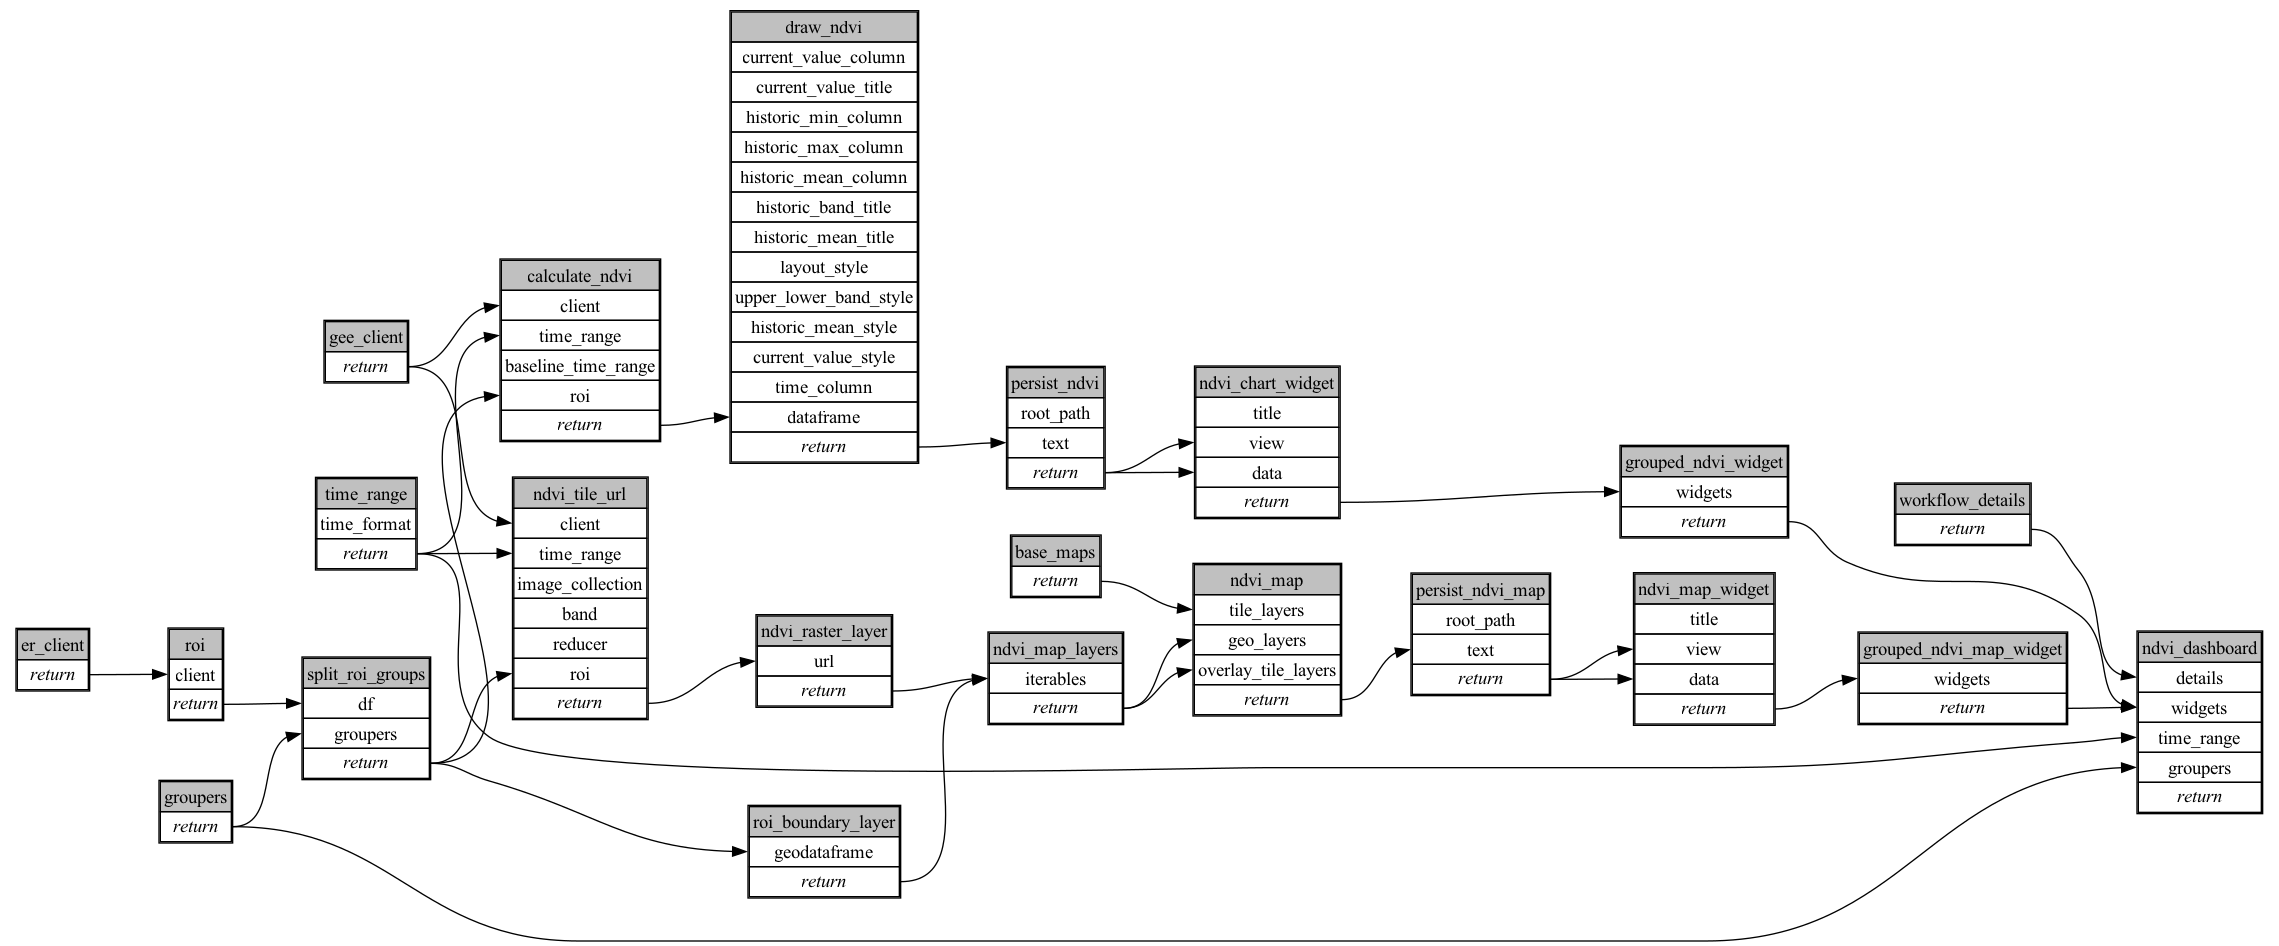
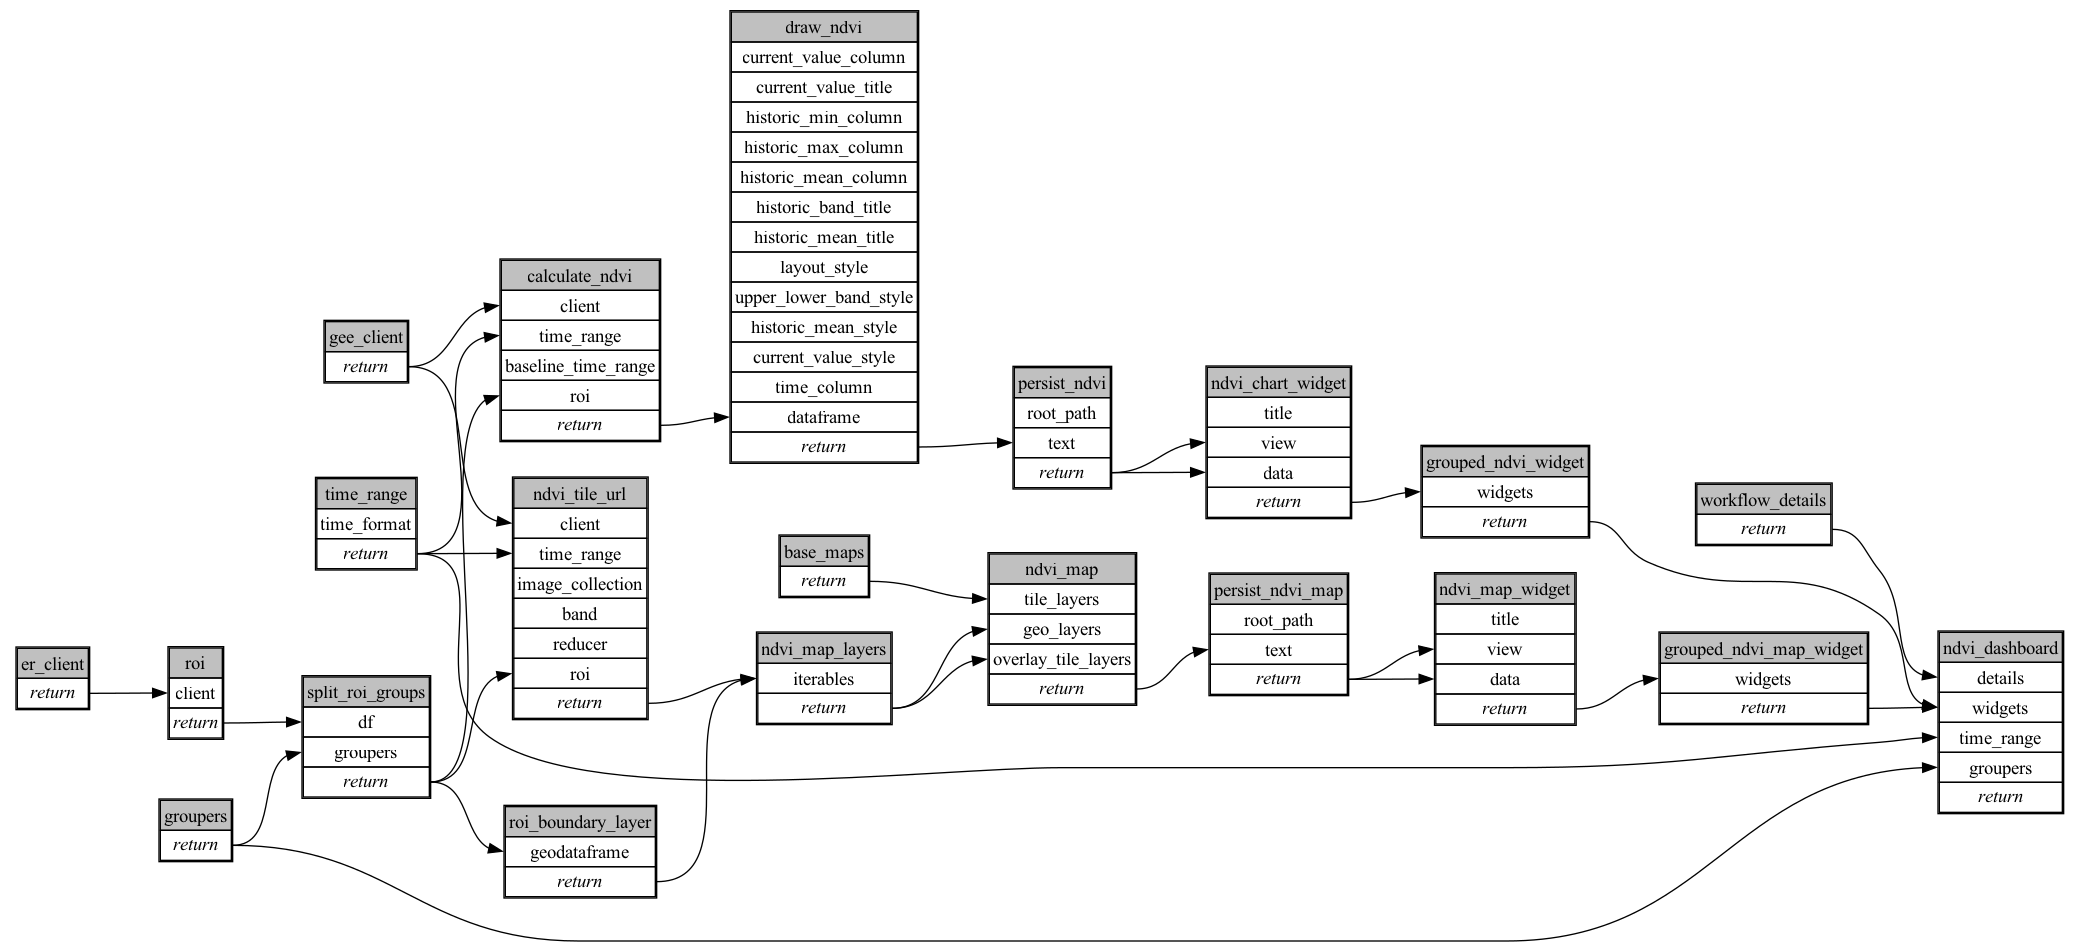
add legend

diff --git a/ecoscope-workflows-ndvi-workflow/ecoscope_workflows_ndvi_workflow/dags/run_async.py b/ecoscope-workflows-ndvi-workflow/ecoscope_workflows_ndvi_workflow/dags/run_async.py
@@ -32,9 +32,6 @@ from ecoscope_workflows_ext_custom.tasks.io import (
 from ecoscope_workflows_ext_custom.tasks.results import (
     create_polygon_layer_pydeck as create_polygon_layer_pydeck,
 )
-from ecoscope_workflows_ext_custom.tasks.results import (
-    create_tiled_bitmap_layer as create_tiled_bitmap_layer,
-)
 from ecoscope_workflows_ext_custom.tasks.results import draw_map as draw_map
 from ecoscope_workflows_ext_custom.tasks.results import (
     set_base_maps_pydeck as set_base_maps_pydeck,
@@ -67,9 +64,8 @@ def main(params: Params):
         "grouped_ndvi_widget": ["ndvi_chart_widget"],
         "base_maps": [],
         "ndvi_tile_url": ["gee_client", "time_range", "split_roi_groups"],
-        "ndvi_raster_layer": ["ndvi_tile_url"],
         "roi_boundary_layer": ["split_roi_groups"],
-        "ndvi_map_layers": ["roi_boundary_layer", "ndvi_raster_layer"],
+        "ndvi_map_layers": ["roi_boundary_layer", "ndvi_tile_url"],
         "ndvi_map": ["base_maps", "ndvi_map_layers"],
         "persist_ndvi_map": ["ndvi_map"],
         "ndvi_map_widget": ["persist_ndvi_map"],
@@ -275,19 +271,6 @@ def main(params: Params):
                 "argvalues": DependsOn("split_roi_groups"),
             },
         ),
-        "ndvi_raster_layer": Node(
-            async_task=create_tiled_bitmap_layer.validate()
-            .set_task_instance_id("ndvi_raster_layer")
-            .handle_errors()
-            .with_tracing()
-            .set_executor("lithops"),
-            partial=(params_dict.get("ndvi_raster_layer") or {}),
-            method="mapvalues",
-            kwargs={
-                "argnames": ["url"],
-                "argvalues": DependsOn("ndvi_tile_url"),
-            },
-        ),
         "roi_boundary_layer": Node(
             async_task=create_polygon_layer_pydeck.validate()
             .set_task_instance_id("roi_boundary_layer")
@@ -310,7 +293,7 @@ def main(params: Params):
             partial={
                 "iterables": [
                     DependsOn("roi_boundary_layer"),
-                    DependsOn("ndvi_raster_layer"),
+                    DependsOn("ndvi_tile_url"),
                 ],
             }
             | (params_dict.get("ndvi_map_layers") or {}),

diff --git a/ecoscope-workflows-ndvi-workflow/ecoscope_workflows_ndvi_workflow/dags/run_async_mock_io.py b/ecoscope-workflows-ndvi-workflow/ecoscope_workflows_ndvi_workflow/dags/run_async_mock_io.py
@@ -57,9 +57,6 @@ from ecoscope_workflows_core.tasks.results import gather_dashboard as gather_das
 from ecoscope_workflows_ext_custom.tasks.results import (
     create_polygon_layer_pydeck as create_polygon_layer_pydeck,
 )
-from ecoscope_workflows_ext_custom.tasks.results import (
-    create_tiled_bitmap_layer as create_tiled_bitmap_layer,
-)
 from ecoscope_workflows_ext_custom.tasks.results import draw_map as draw_map
 
 from ..params import Params
@@ -85,9 +82,8 @@ def main(params: Params):
         "grouped_ndvi_widget": ["ndvi_chart_widget"],
         "base_maps": [],
         "ndvi_tile_url": ["gee_client", "time_range", "split_roi_groups"],
-        "ndvi_raster_layer": ["ndvi_tile_url"],
         "roi_boundary_layer": ["split_roi_groups"],
-        "ndvi_map_layers": ["roi_boundary_layer", "ndvi_raster_layer"],
+        "ndvi_map_layers": ["roi_boundary_layer", "ndvi_tile_url"],
         "ndvi_map": ["base_maps", "ndvi_map_layers"],
         "persist_ndvi_map": ["ndvi_map"],
         "ndvi_map_widget": ["persist_ndvi_map"],
@@ -293,19 +289,6 @@ def main(params: Params):
                 "argvalues": DependsOn("split_roi_groups"),
             },
         ),
-        "ndvi_raster_layer": Node(
-            async_task=create_tiled_bitmap_layer.validate()
-            .set_task_instance_id("ndvi_raster_layer")
-            .handle_errors()
-            .with_tracing()
-            .set_executor("lithops"),
-            partial=(params_dict.get("ndvi_raster_layer") or {}),
-            method="mapvalues",
-            kwargs={
-                "argnames": ["url"],
-                "argvalues": DependsOn("ndvi_tile_url"),
-            },
-        ),
         "roi_boundary_layer": Node(
             async_task=create_polygon_layer_pydeck.validate()
             .set_task_instance_id("roi_boundary_layer")
@@ -328,7 +311,7 @@ def main(params: Params):
             partial={
                 "iterables": [
                     DependsOn("roi_boundary_layer"),
-                    DependsOn("ndvi_raster_layer"),
+                    DependsOn("ndvi_tile_url"),
                 ],
             }
             | (params_dict.get("ndvi_map_layers") or {}),

diff --git a/ecoscope-workflows-ndvi-workflow/ecoscope_workflows_ndvi_workflow/dags/jupytext.py b/ecoscope-workflows-ndvi-workflow/ecoscope_workflows_ndvi_workflow/dags/jupytext.py
@@ -41,9 +41,6 @@ from ecoscope_workflows_ext_custom.tasks.io import (
 from ecoscope_workflows_ext_custom.tasks.results import (
     create_polygon_layer_pydeck as create_polygon_layer_pydeck,
 )
-from ecoscope_workflows_ext_custom.tasks.results import (
-    create_tiled_bitmap_layer as create_tiled_bitmap_layer,
-)
 from ecoscope_workflows_ext_custom.tasks.results import draw_map as draw_map
 from ecoscope_workflows_ext_custom.tasks.results import (
     set_base_maps_pydeck as set_base_maps_pydeck,
@@ -383,6 +380,7 @@ base_maps = (
 ndvi_tile_url_params = dict(
     palette=...,
     scale=...,
+    legend_title=...,
 )
 
 # %%
@@ -402,31 +400,6 @@ ndvi_tile_url = (
         **ndvi_tile_url_params,
     )
     .mapvalues(argnames=["roi"], argvalues=split_roi_groups)
-)
-
-
-# %% [markdown]
-# ## Create NDVI Raster Layer
-
-# %%
-# parameters
-
-ndvi_raster_layer_params = dict(
-    opacity=...,
-    max_zoom=...,
-    min_zoom=...,
-)
-
-# %%
-# call the task
-
-
-ndvi_raster_layer = (
-    create_tiled_bitmap_layer.set_task_instance_id("ndvi_raster_layer")
-    .handle_errors()
-    .with_tracing()
-    .partial(**ndvi_raster_layer_params)
-    .mapvalues(argnames=["url"], argvalues=ndvi_tile_url)
 )
 
 
@@ -470,9 +443,7 @@ ndvi_map_layers = (
     groupbykey.set_task_instance_id("ndvi_map_layers")
     .handle_errors()
     .with_tracing()
-    .partial(
-        iterables=[roi_boundary_layer, ndvi_raster_layer], **ndvi_map_layers_params
-    )
+    .partial(iterables=[roi_boundary_layer, ndvi_tile_url], **ndvi_map_layers_params)
     .call()
 )
 

diff --git a/ecoscope-workflows-ndvi-workflow/ecoscope_workflows_ndvi_workflow/dags/run_sequential.py b/ecoscope-workflows-ndvi-workflow/ecoscope_workflows_ndvi_workflow/dags/run_sequential.py
@@ -31,9 +31,6 @@ from ecoscope_workflows_ext_custom.tasks.io import (
 from ecoscope_workflows_ext_custom.tasks.results import (
     create_polygon_layer_pydeck as create_polygon_layer_pydeck,
 )
-from ecoscope_workflows_ext_custom.tasks.results import (
-    create_tiled_bitmap_layer as create_tiled_bitmap_layer,
-)
 from ecoscope_workflows_ext_custom.tasks.results import draw_map as draw_map
 from ecoscope_workflows_ext_custom.tasks.results import (
     set_base_maps_pydeck as set_base_maps_pydeck,
@@ -212,15 +209,6 @@ def main(params: Params):
         .mapvalues(argnames=["roi"], argvalues=split_roi_groups)
     )
 
-    ndvi_raster_layer = (
-        create_tiled_bitmap_layer.validate()
-        .set_task_instance_id("ndvi_raster_layer")
-        .handle_errors()
-        .with_tracing()
-        .partial(**(params_dict.get("ndvi_raster_layer") or {}))
-        .mapvalues(argnames=["url"], argvalues=ndvi_tile_url)
-    )
-
     roi_boundary_layer = (
         create_polygon_layer_pydeck.validate()
         .set_task_instance_id("roi_boundary_layer")
@@ -236,7 +224,7 @@ def main(params: Params):
         .handle_errors()
         .with_tracing()
         .partial(
-            iterables=[roi_boundary_layer, ndvi_raster_layer],
+            iterables=[roi_boundary_layer, ndvi_tile_url],
             **(params_dict.get("ndvi_map_layers") or {}),
         )
         .call()

diff --git a/ecoscope-workflows-ndvi-workflow/ecoscope_workflows_ndvi_workflow/dags/run_sequential_mock_io.py b/ecoscope-workflows-ndvi-workflow/ecoscope_workflows_ndvi_workflow/dags/run_sequential_mock_io.py
@@ -56,9 +56,6 @@ from ecoscope_workflows_core.tasks.results import gather_dashboard as gather_das
 from ecoscope_workflows_ext_custom.tasks.results import (
     create_polygon_layer_pydeck as create_polygon_layer_pydeck,
 )
-from ecoscope_workflows_ext_custom.tasks.results import (
-    create_tiled_bitmap_layer as create_tiled_bitmap_layer,
-)
 from ecoscope_workflows_ext_custom.tasks.results import draw_map as draw_map
 
 from ..params import Params
@@ -230,15 +227,6 @@ def main(params: Params):
         .mapvalues(argnames=["roi"], argvalues=split_roi_groups)
     )
 
-    ndvi_raster_layer = (
-        create_tiled_bitmap_layer.validate()
-        .set_task_instance_id("ndvi_raster_layer")
-        .handle_errors()
-        .with_tracing()
-        .partial(**(params_dict.get("ndvi_raster_layer") or {}))
-        .mapvalues(argnames=["url"], argvalues=ndvi_tile_url)
-    )
-
     roi_boundary_layer = (
         create_polygon_layer_pydeck.validate()
         .set_task_instance_id("roi_boundary_layer")
@@ -254,7 +242,7 @@ def main(params: Params):
         .handle_errors()
         .with_tracing()
         .partial(
-            iterables=[roi_boundary_layer, ndvi_raster_layer],
+            iterables=[roi_boundary_layer, ndvi_tile_url],
             **(params_dict.get("ndvi_map_layers") or {}),
         )
         .call()

diff --git a/ecoscope-workflows-ndvi-workflow/ecoscope_workflows_ndvi_workflow/formdata.py b/ecoscope-workflows-ndvi-workflow/ecoscope_workflows_ndvi_workflow/formdata.py
@@ -231,19 +231,11 @@ class NdviTileUrl(BaseModel):
         description="Scale in meters for computing min/max statistics.",
         title="Scale",
     )
-
-
-class NdviRasterLayer(BaseModel):
-    model_config = ConfigDict(
-        extra="forbid",
+    legend_title: str | None = Field(
+        None,
+        description="Title for the map legend. Defaults to the band name.",
+        title="Legend Title",
     )
-    opacity: confloat(ge=0.0, le=1.0) | None = Field(
-        1.0, description="Layer opacity from 0 to 1.", title="Opacity"
-    )
-    max_zoom: int | None = Field(
-        20, description="Maximum zoom level.", title="Max Zoom"
-    )
-    min_zoom: int | None = Field(0, description="Minimum zoom level.", title="Min Zoom")
 
 
 class GoogleEarthEngineConnection(BaseModel):
@@ -537,9 +529,6 @@ class FormData(BaseModel):
     calculate_ndvi: CalculateNdvi | None = Field(None, title="Calculate NDVI")
     base_maps: BaseMaps | None = Field(None, title="Set Base Maps")
     ndvi_tile_url: NdviTileUrl | None = Field(None, title="Create NDVI Tile URL")
-    ndvi_raster_layer: NdviRasterLayer | None = Field(
-        None, title="Create NDVI Raster Layer"
-    )
     roi_boundary_layer: RoiBoundaryLayer | None = Field(
         None, title="Create ROI Boundary Layer"
     )

diff --git a/ecoscope-workflows-ndvi-workflow/ecoscope_workflows_ndvi_workflow/params.py b/ecoscope-workflows-ndvi-workflow/ecoscope_workflows_ndvi_workflow/params.py
@@ -231,19 +231,11 @@ class NdviTileUrl(BaseModel):
         description="Scale in meters for computing min/max statistics.",
         title="Scale",
     )
-
-
-class NdviRasterLayer(BaseModel):
-    model_config = ConfigDict(
-        extra="forbid",
+    legend_title: str | None = Field(
+        None,
+        description="Title for the map legend. Defaults to the band name.",
+        title="Legend Title",
     )
-    opacity: confloat(ge=0.0, le=1.0) | None = Field(
-        1.0, description="Layer opacity from 0 to 1.", title="Opacity"
-    )
-    max_zoom: int | None = Field(
-        20, description="Maximum zoom level.", title="Max Zoom"
-    )
-    min_zoom: int | None = Field(0, description="Minimum zoom level.", title="Min Zoom")
 
 
 class GoogleEarthEngineConnection(BaseModel):
@@ -537,9 +529,6 @@ class Params(BaseModel):
     calculate_ndvi: CalculateNdvi | None = Field(None, title="Calculate NDVI")
     base_maps: BaseMaps | None = Field(None, title="Set Base Maps")
     ndvi_tile_url: NdviTileUrl | None = Field(None, title="Create NDVI Tile URL")
-    ndvi_raster_layer: NdviRasterLayer | None = Field(
-        None, title="Create NDVI Raster Layer"
-    )
     roi_boundary_layer: RoiBoundaryLayer | None = Field(
         None, title="Create ROI Boundary Layer"
     )

diff --git a/ecoscope-workflows-ndvi-workflow/README.md b/ecoscope-workflows-ndvi-workflow/README.md
@@ -5,8 +5,8 @@
 
 ```yaml
 # fingerprint:
-artifacts_sha256_basic: 41ca32e063d1e5e82aaba4fa28d958d0622dbdd7c21a2642007561dadfc708ff
-artifacts_sha256_strict: a9b059b972840c529e345a7b975b6eb5938a5298a2b1242d80d322c531fbf558
+artifacts_sha256_basic: f5933eb6047094abc6e3eefc39ad6763afbfefbf0f06d8dfd2e0b984c280a15b
+artifacts_sha256_strict: f91a34b331ea88db7325458e72db236b759983c5f5e0341dffe5ac1faeb8bcf8
 installed_requirements:
 - channel: https://repo.prefix.dev/ecoscope-workflows/
   name: ecoscope-workflows-core
@@ -17,8 +17,8 @@ installed_requirements:
 - channel: https://repo.prefix.dev/ecoscope-workflows-custom/
   name: ecoscope-workflows-ext-custom
   version: {version: ==0.0.29.dev4+g3c854f5d1.d20260223}
-params_sha256: 40ee6fdaf75954ff9ad80cf4abc7684c01bdaf0b21563a295c56eac0aa54b974
-spec_sha256: 6190eadea1063fcd231faad12ea23817b8f3ae5477ac29431d0abf0d1ce152e9
+params_sha256: 54751c57cd5a14ba8f18e7a99a7600e0ed756e05469a0f7687da05df54904fe1
+spec_sha256: 6756b08c190b17c77f9a7b6a3c3f5a444ab2f8910e8ec2c220bcc42c60f1ce4b
 
 ```
 
